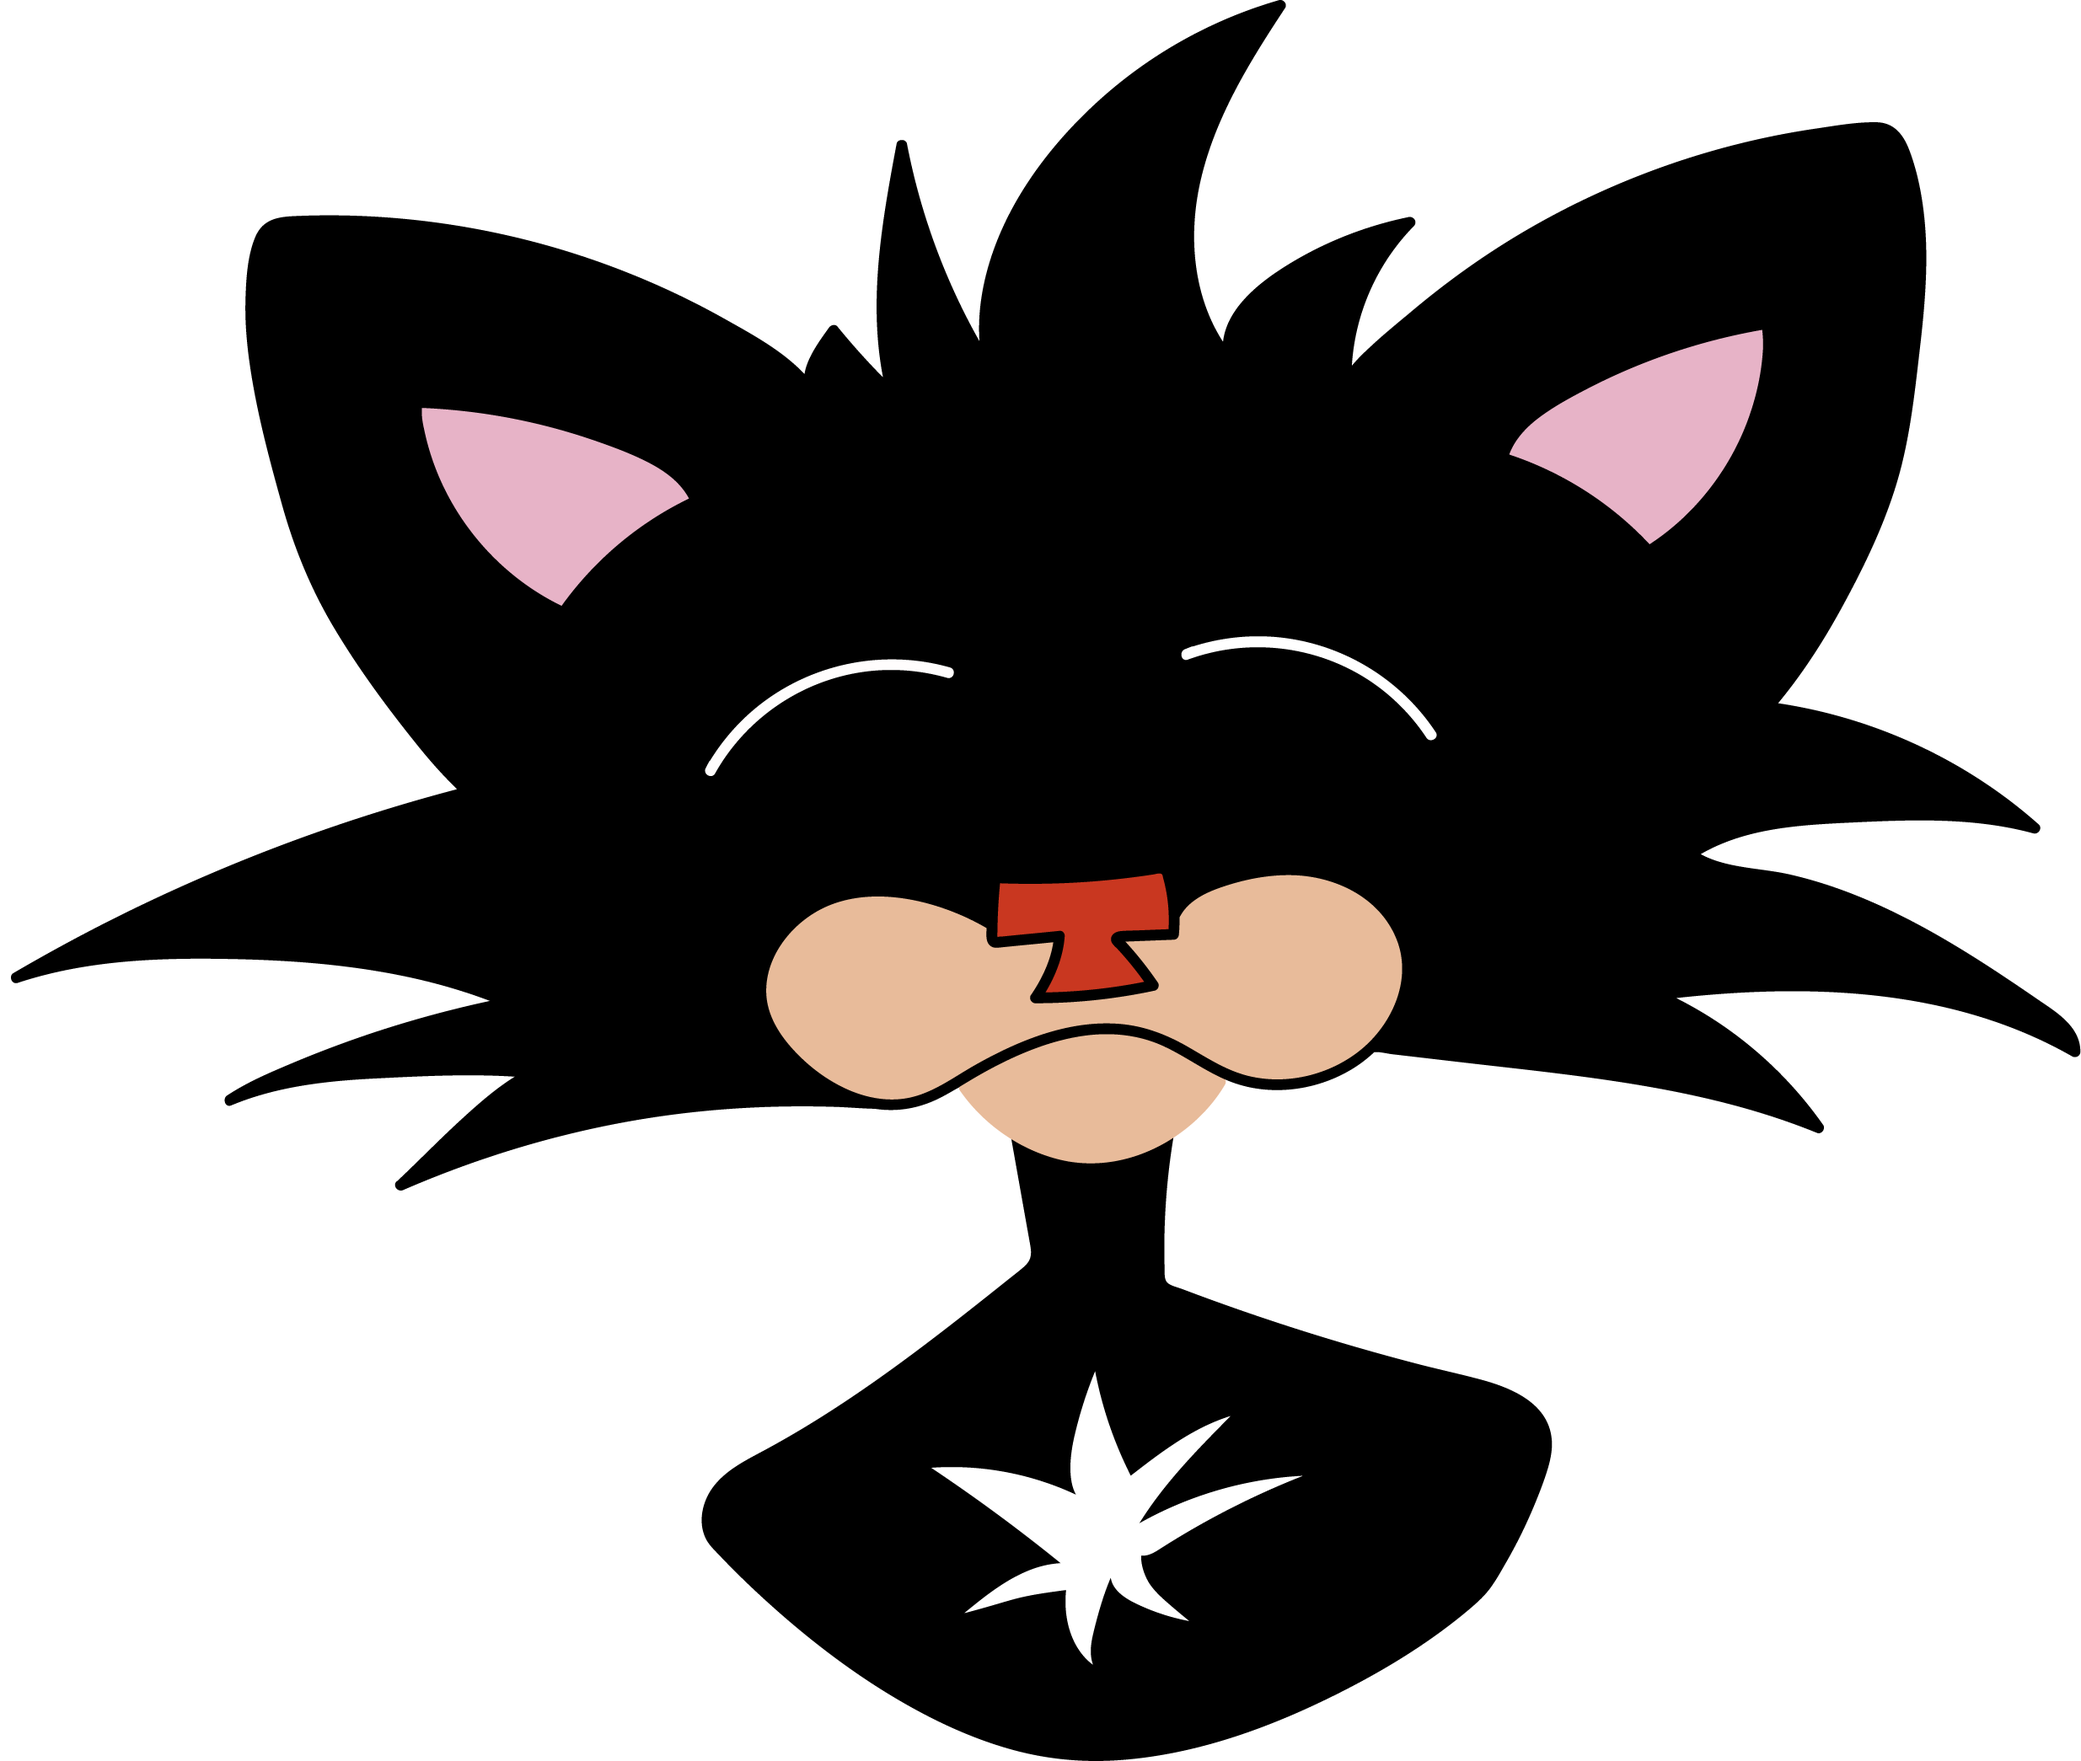
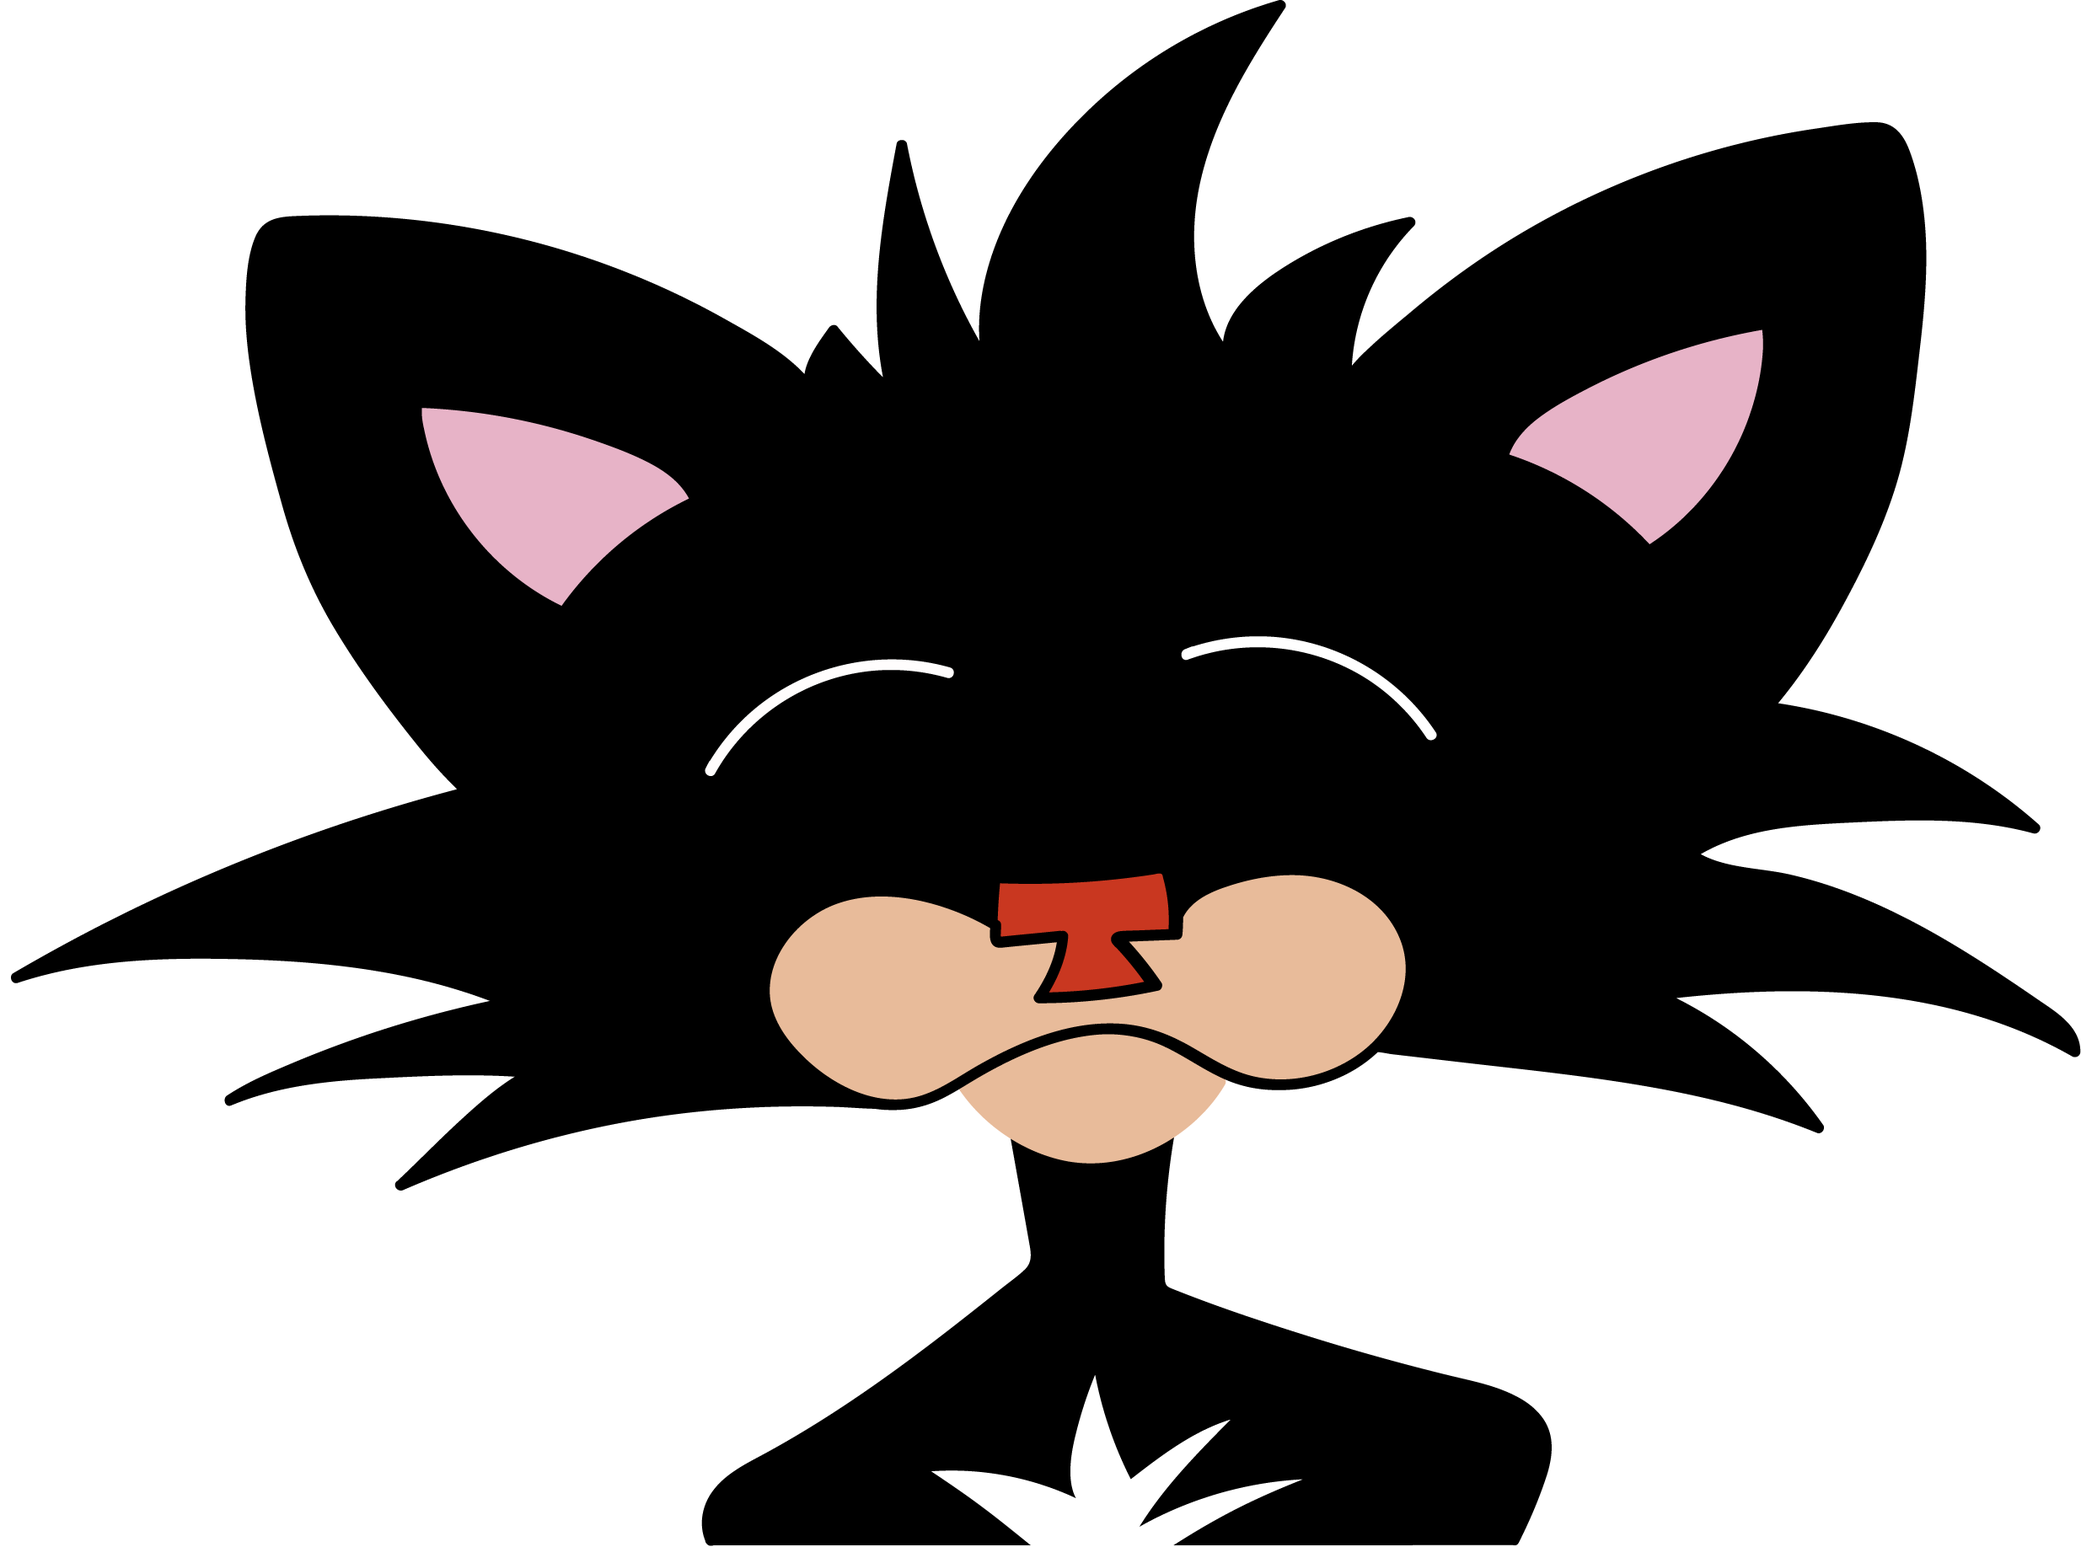
happy kitty choice placement

diff --git a/game.js b/game.js
@@ -24,6 +24,8 @@ window.addEventListener('DOMContentLoaded', (event) => {
     // const qr = document.getElementById('qrCanvas');
     // const qr2 = document.getElementById('qrCanvas3');
 
+    const happyKitty = document.getElementById('happy-kitty-1');
+
     const addText = document.getElementById('add-text')
     const comicText = document.getElementById('comic-text')
 
@@ -165,11 +167,11 @@ window.addEventListener('DOMContentLoaded', (event) => {
         event.target.style.cursor = 'default';
 
 
-        tutorial1.innerText = 'Well done! Scroll to the next panel!'
+        tutorial1.innerHTML = 'Oh, what could Kitty be up to?! <br\> Pretty sure it\'s something...<b>bad</b>!'
         tutorial1.style.top = '15px'
 
         setTimeout(() => {
-                    tutorial1.style.opacity = 0
+                    tutorial1.style.opacity = 1
                 }, 5000)
         })
 
@@ -209,12 +211,28 @@ window.addEventListener('DOMContentLoaded', (event) => {
 
             treats.filter((treat) => treat !== event.target).forEach((treat) => { treat.style.display = 'none' });
 
-            tutorial2.innerText = 'Mmmmm! Kitty definitely likes that choice!'
-            tutorial2.style.top = '15px'
-            tutorial2.style.left = '420px'
+            function handleChoice() {
+                happyKitty.style.opacity = 1;
+
+                if (JSON.parse(sessionStorage.getItem('treat-choice')).id === "chicken-thought") {
+                    happyKitty.style.left = '485px';
+                    return tutorial2.innerHTML = `Mmmmm! Kitty definitely likes chicken!`
+                } else if (JSON.parse(sessionStorage.getItem('treat-choice')).id === "treat-thought") {
+                    happyKitty.style.left = '485px';
+                    return tutorial2.innerText = `Mmmmm! Kitty definitely likes her treats!`
+                } else if (JSON.parse(sessionStorage.getItem('treat-choice')).id === "tuna-thought") {
+                    happyKitty.style.left = '450px';
+                    return tutorial2.innerText = `Mmmmm! Kitty definitely likes tuna!`
+                }
+                
+            }
+
+            tutorial2.innerText = handleChoice()
+            tutorial2.style.top = '30px'
+            tutorial2.style.left = '430px'
 
             setTimeout(() => {
-                tutorial2.style.opacity = 0
+                tutorial2.style.opacity = 1
             }, 5000)
 
             event.target.style.cursor = 'default';
@@ -421,6 +439,10 @@ function clearCanvas() {
             if (counter % 2 === 0) {
                 // page1.innerHTML = page1html
                 pageContainer.innerHTML = page2ContainerHtml
+
+                paws.forEach(paw => {
+                    paw.style.opacity = '1';
+                })
 
                  const clearCanvas = document.getElementById('clearCanvas')
 

diff --git a/index.html b/index.html
@@ -86,7 +86,7 @@
 
                 <img src="/Assets/thought-bubble-panel-1.png" alt="" id="thought-bubble-1" class="speech-bubble">
 
-                <!-- <img src="/Assets/happy-kitty-thought.png" alt="" id="happy-kitty-1" class=""> -->
+                <img src="/Assets/happy-kitty-thought.png" alt="" id="happy-kitty-1" class="">
 
                 <img id="eyes-1-kitty" class="body-button" src="/Assets/Pensive-Kitty-Eyes.png" alt="" hidden>
 

diff --git a/game.css b/game.css
@@ -218,10 +218,14 @@ h3{
 #happy-kitty-1 {
     display: block;
     position: absolute;
-    width: 10%;
-    bottom: 513px;
-    left: 810px;
-    top: 700px
+    width: 18%;
+    
+    left: 468px;
+    top: 278.5px;
+    opacity: 0;
+    transition: opacity 1s ease-in-out;
+
+
 
 }
 #treatbagopen {
